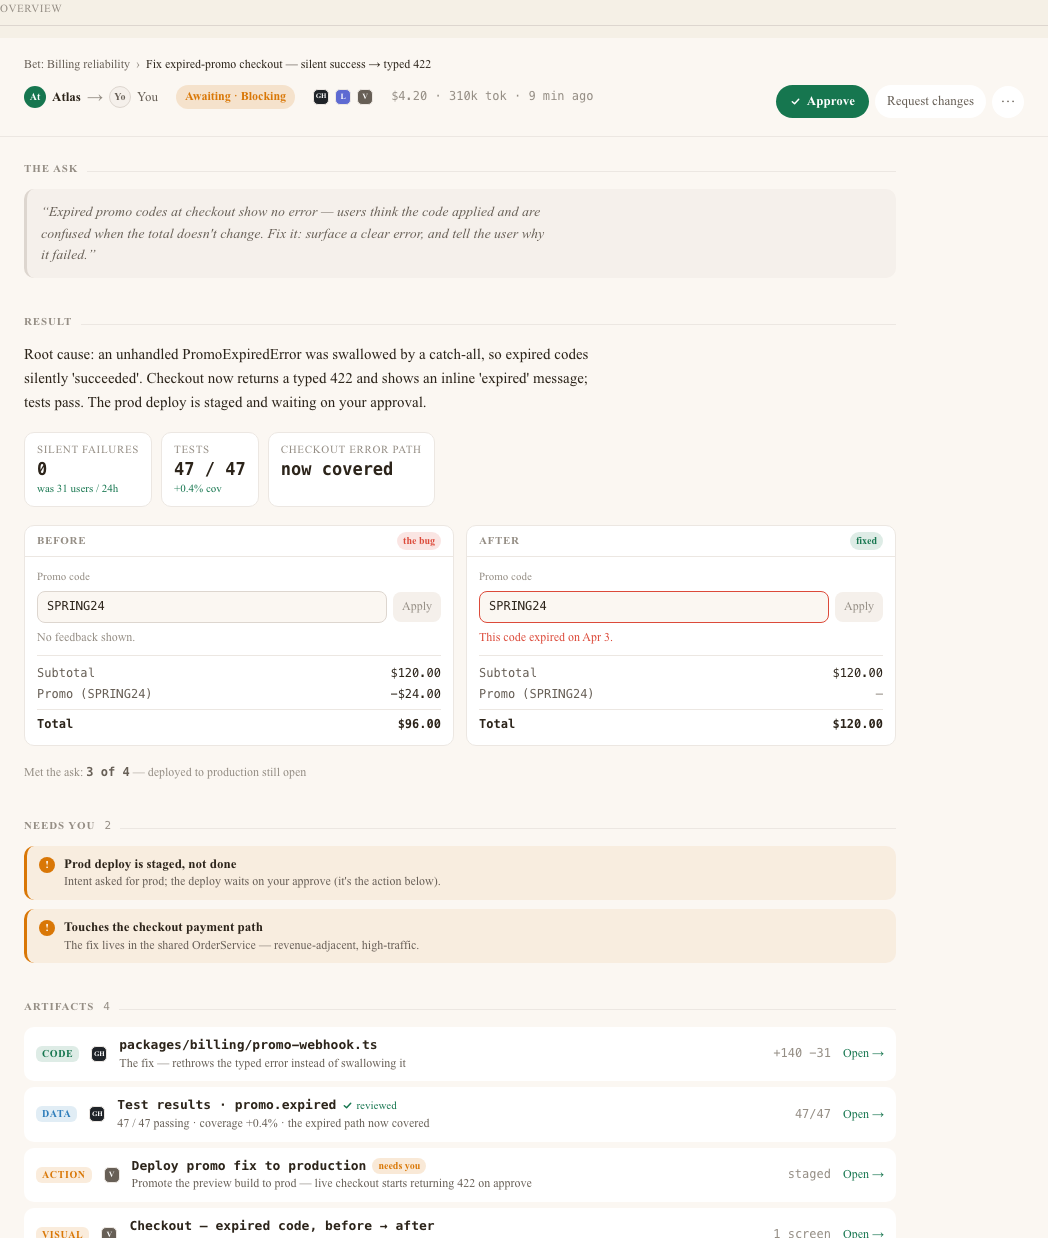
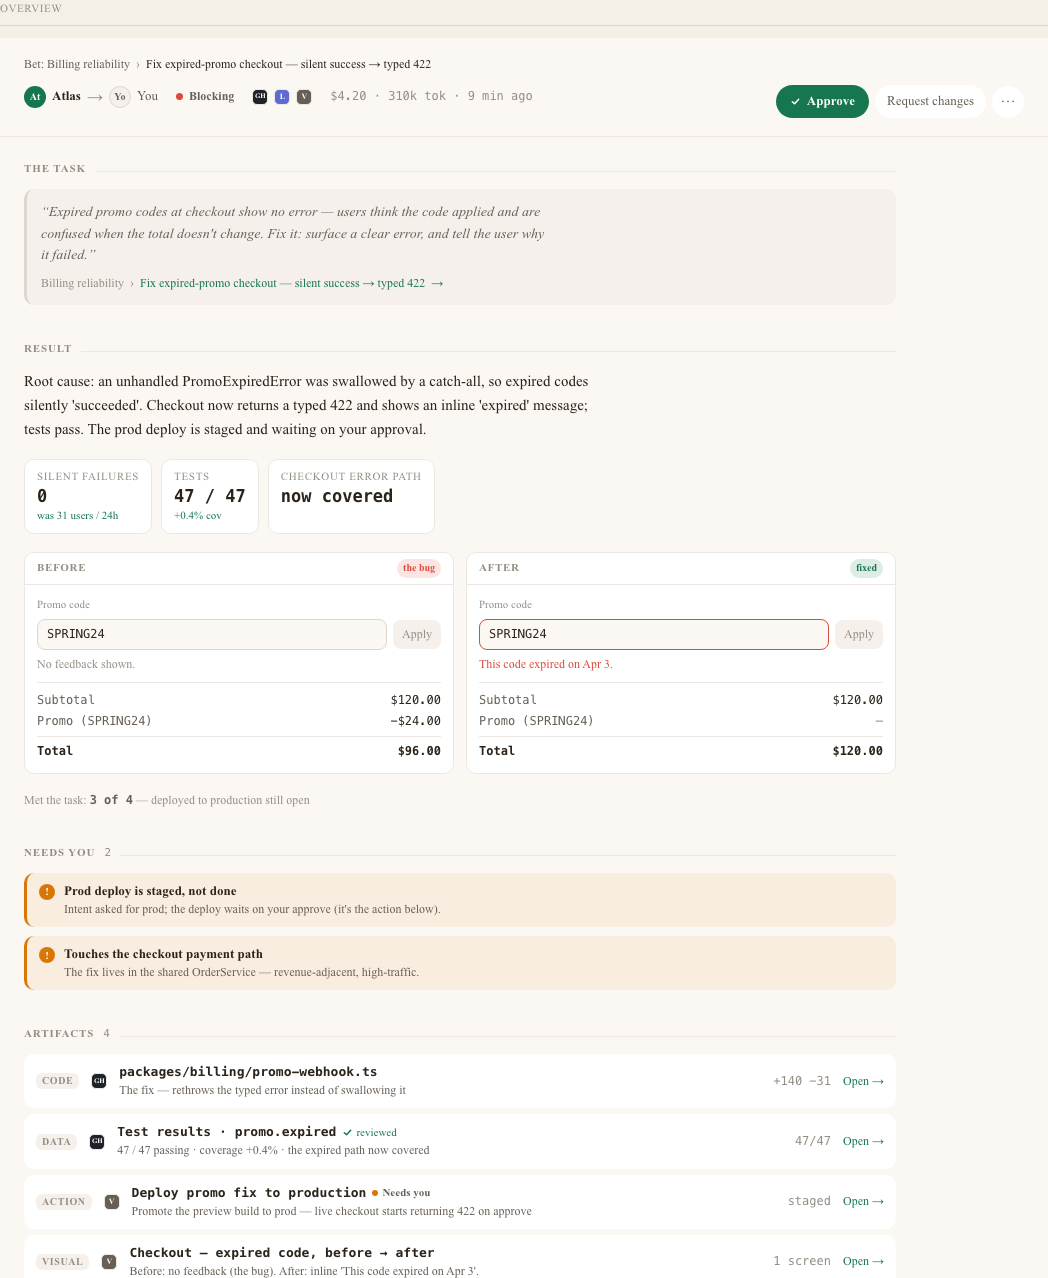
design(AL1): refined composition round-3 polish
Founder round-3 annotations:
- One conversation: removed the per-artifact thread in the examine pane; kept the
  single global thread; comments carry a reference chip (on PromoField.tsx:118)
  so feedback can point at an artifact/spot without a second thread.
- Killed the 'round blob' pills: Awaiting·Blocking → red dot + text; artifact
  'needs you' → amber dot + text.
- THE ASK → THE TASK + a clickable link to the source (bet › task).
- Muted kind badges (neutral, dropped KIND_TINT) — color reserved for meaning.
(Conversation style will adopt the AM-track redesign later — kept light for now.)

diff --git a/packages/web/src/pages/review/ReviewCompositionRefined.tsx b/packages/web/src/pages/review/ReviewCompositionRefined.tsx
@@ -1,23 +1,26 @@
-// AL1 — composition, REFINED (round 3). The CONVERGED review experience, addressing
-// the founder's round-2 annotations:
+// AL1 — composition, REFINED (round 3 applied). The CONVERGED review experience.
+// Round-3 founder annotations applied on top of the round-2 structure:
 //
-//  (1) WHERE-WE-CAME-FROM + WHAT-WE-DID. Lead with THE ASK (the bet + the real
-//      `prompt` text) then RESULT (the outcome + glanceable `resultKpis` + a visible
-//      before→after checkout proof — "something to see," not an abstract checklist).
-//      The intent done-conditions are DEMOTED to one small "Met the ask" line.
-//  (2) RIGHT-PANE, not downward. The center column IS the whole review you approve.
-//      Clicking an artifact opens it in a RIGHT PANE (center narrows); closing returns
-//      full width. The conversation lives ON THE CONTENT — inline at the end of the
-//      center overview, and (in the pane) anchored to the examined artifact. Never a
-//      separate persistent conversation pane.
-//  (3) NO floating verdict bar. The verdict sits in the TOP-RIGHT of the frame header,
-//      always reachable: primary Approve · secondary Request changes · ⋯ overflow
-//      (Approve w/ comments · Edit · Reject).
-//  (4) REDUCED NESTING. Center artifact rows are THIN openers (kind badge + ToolLogo +
-//      title + summary + change badge + reviewed + "Open →"), NOT containers wrapping
-//      the building block. The full block opens in the pane (with its own source header).
-//  (5) CLEAR SECTIONS + air. Each section gets a quiet-caps header (The ask · Result ·
-//      Needs you · Artifacts · Conversation) with generous spacing.
+//  R3-1 ONE conversation, not two. A single global thread lives at the end of the
+//       center overview. The right pane shows ONLY the building block — no second
+//       per-artifact thread. A comment can carry a reference chip ("on PromoField.tsx:118")
+//       so feedback points at an artifact/spot as context without a second thread.
+//       Kept lightly styled — it will adopt the AM-track conversation redesign later.
+//  R3-2 No round-blob status pills. Standing/risk read as a status DOT + plain text
+//       (red dot · Blocking; amber dot · Needs you), not a saturated --r-pill blob.
+//  R3-3 "The task" (was "The ask") + a link to the source reference (bet › task record).
+//  R3-4 Muted kind badges — CODE/DATA/ACTION/VISUAL render neutral; color is reserved
+//       for MEANING (status / needs-you), so the surface reads calm, not rainbow.
+//
+//  Carried from round 2:
+//  (·) WHERE-WE-CAME-FROM + WHAT-WE-DID — §The task (bet + real prompt) then §Result
+//      (outcome + KPIs + before→after checkout proof). Intent demoted to "Met the task".
+//  (·) RIGHT-PANE, not downward. Center IS the review; clicking an artifact opens it in
+//      a right pane (center narrows); closing returns full width.
+//  (·) NO floating verdict bar. Verdict sits TOP-RIGHT of the header: Approve · Request
+//      changes · ⋯ overflow (Approve w/ comments · Edit · Reject).
+//  (·) THIN artifact openers, not containers. The full block opens in the pane.
+//  (·) CLEAR SECTIONS + air — quiet-caps headers, generous spacing.
 //
 // Presentational isolation: local useState for pane open/close + active artifact +
 // overflow menu. Every callback is a no-op. No router/context/MockProviders.
@@ -71,25 +74,24 @@ const KIND_LABEL: Record<SubjectArtifactRow["kind"], string> = {
 	visual: "Visual",
 };
 
-const KIND_TINT: Record<SubjectArtifactRow["kind"], string> = {
-	code: "var(--accent-primary)",
-	data: "var(--status-info)",
-	action: "var(--status-warning)",
-	visual: "var(--accent-secondary)",
-};
-
-/** kind badge — a tiny squared chip in the artifact's family color. */
+/**
+ * kind badge — a tiny neutral chip. Per round-3 founder note (4): color is reserved
+ * for MEANING (status / needs-you), so the kind label reads quiet, not rainbow.
+ */
 function KindBadge({ kind }: { kind: SubjectArtifactRow["kind"] }): JSX.Element {
-	const tint = KIND_TINT[kind];
 	return (
-		<span
-			className="inline-flex items-center rounded-[6px] px-[6px] py-[3px] text-[10px] font-[600] uppercase tracking-[var(--tracking-caps-sm)] leading-none"
-			style={{
-				color: tint,
-				background: `color-mix(in oklab, ${tint} 14%, transparent)`,
-			}}
-		>
+		<span className="inline-flex items-center rounded-[6px] bg-[var(--surface-container)] px-[6px] py-[3px] text-[10px] font-[600] uppercase tracking-[var(--tracking-caps-sm)] leading-none text-[var(--text-tertiary)]">
 			{KIND_LABEL[kind]}
+		</span>
+	);
+}
+
+/** status dot + label — calm, legible standing/risk signal (not a saturated blob). */
+function StatusDot({ tone, label }: { tone: string; label: string }): JSX.Element {
+	return (
+		<span className="inline-flex items-center gap-[6px] text-[12px] font-[600] text-[var(--text-secondary)]">
+			<span aria-hidden="true" className="h-[7px] w-[7px] rounded-[var(--r-pill)]" style={{ background: tone }} />
+			{label}
 		</span>
 	);
 }
@@ -198,11 +200,7 @@ function FrameHeader({ menuOpen, onToggleMenu }: VerdictProps): JSX.Element {
 						<span className="text-[13px] text-[var(--text-secondary)]">{s.reviewer}</span>
 					</div>
 
-					{s.blocking ? (
-						<span className="inline-flex items-center gap-[6px] rounded-[var(--r-pill)] bg-[color-mix(in_oklab,var(--status-warning)_16%,transparent)] px-[9px] py-[3px] text-[12px] font-[600] text-[var(--status-warning)]">
-							Awaiting · Blocking
-						</span>
-					) : null}
+					{s.blocking ? <StatusDot tone="var(--status-error)" label="Blocking" /> : null}
 
 					<div className="flex items-center gap-[6px]">
 						{s.tools.map((t: ToolId) => (
@@ -222,16 +220,29 @@ function FrameHeader({ menuOpen, onToggleMenu }: VerdictProps): JSX.Element {
 	);
 }
 
-// ── § THE ASK — where we came from (the real prompt, small + scannable) ─────────────
-function AskSection(): JSX.Element {
+// ── § THE TASK — where we came from (the real prompt + a link to the source) ────────
+function TaskSection(): JSX.Element {
 	const s = REVIEW_SUBJECT;
 	return (
 		<section>
-			<SectionHead label="The ask" />
+			<SectionHead label="The task" />
 			<div className="rounded-[var(--r-subtle)] border-l-[3px] border-[var(--border-default)] bg-[var(--surface-container)] px-[14px] py-[12px]">
 				<p className="max-w-[72ch] text-[14px] italic leading-[1.55] text-[var(--text-secondary)]">
 					“{s.prompt}”
 				</p>
+				{/* link to the source reference — the task record this work is judged against */}
+				<button
+					type="button"
+					onClick={() => {}}
+					className="mt-[9px] inline-flex items-center gap-[6px] text-[12px] font-[500] text-[var(--accent-primary)] transition-colors duration-[var(--motion-fast)] ease-[var(--motion-ease)] hover:brightness-95"
+				>
+					<span className="text-[var(--text-tertiary)]">{s.bet}</span>
+					<span aria-hidden="true" className="text-[var(--text-tertiary)]">
+						›
+					</span>
+					<span className="truncate">{s.workIdentity}</span>
+					<span aria-hidden="true">→</span>
+				</button>
 			</div>
 		</section>
 	);
@@ -377,7 +388,7 @@ function ResultSection(): JSX.Element {
 
 				{/* the intent checklist, DEMOTED to one secondary line */}
 				<p className="text-[12px] text-[var(--text-tertiary)]">
-					Met the ask:{" "}
+					Met the task:{" "}
 					<span className="font-mono tabular-nums font-[600] text-[var(--text-secondary)]">
 						{met} of {s.intent.length}
 					</span>
@@ -449,8 +460,13 @@ function ArtifactRow({ artifact, active, onOpen }: ArtifactRowProps): JSX.Elemen
 						</span>
 					) : null}
 					{artifact.needsYou ? (
-						<span className="inline-flex items-center rounded-[var(--r-pill)] bg-[color-mix(in_oklab,var(--status-warning)_16%,transparent)] px-[6px] py-[1px] text-[10px] font-[600] text-[var(--status-warning)]">
-							needs you
+						<span className="inline-flex items-center gap-[4px] text-[11px] font-[600] text-[var(--text-secondary)]">
+							<span
+								aria-hidden="true"
+								className="h-[6px] w-[6px] rounded-[var(--r-pill)]"
+								style={{ background: "var(--status-warning)" }}
+							/>
+							Needs you
 						</span>
 					) : null}
 				</div>
@@ -508,9 +524,16 @@ function CommentItem({ comment }: { comment: ReviewComment }): JSX.Element {
 					<span className="text-[11px] text-[var(--text-tertiary)]">{comment.ago}</span>
 				</div>
 				{comment.anchor ? (
-					<span className="mt-[3px] inline-flex items-center rounded-[6px] bg-[var(--surface-container)] px-[6px] py-[1px] font-mono text-[11px] text-[var(--text-tertiary)]">
-						{comment.anchor}
-					</span>
+					/* reference chip — the comment points AT something (a spot / an artifact) as
+					   context, so feedback can target a place without spawning a second thread. */
+					<button
+						type="button"
+						onClick={() => {}}
+						className="mt-[3px] inline-flex items-center gap-[4px] rounded-[6px] border border-[var(--border-subtle)] bg-[var(--surface-container)] px-[6px] py-[1px] text-[11px] text-[var(--text-tertiary)] transition-colors duration-[var(--motion-fast)] ease-[var(--motion-ease)] hover:text-[var(--text-secondary)]"
+					>
+						<span className="text-[var(--text-tertiary)]">on</span>
+						<span className="font-mono text-[var(--text-secondary)]">{comment.anchor}</span>
+					</button>
 				) : null}
 				<p className="mt-[3px] text-[13px] leading-[1.5] text-[var(--text-secondary)]">{comment.body}</p>
 			</div>
@@ -561,8 +584,9 @@ function ExaminePane({
 	artifact: SubjectArtifactRow;
 	onClose: () => void;
 }): JSX.Element {
-	// conversation anchored to THIS artifact (the code file's thread on PromoField.tsx:118)
-	const anchored = REVIEW_SUBJECT.conversation.filter((c) => c.anchor !== undefined);
+	// Round-3 (1): ONE conversation only — the global one in the center overview. The
+	// pane shows the building block alone; to discuss a spot here you "Comment on this"
+	// and it lands in the global thread carrying a reference chip back to this artifact.
 	return (
 		<aside className="flex h-full w-[620px] shrink-0 flex-col border-l border-[var(--border-subtle)] bg-[var(--surface-container)]">
 			<div className="flex items-center gap-[9px] border-b border-[var(--border-subtle)] bg-[var(--surface-page)] px-[18px] py-[12px]">
@@ -571,6 +595,13 @@ function ExaminePane({
 				<span className="min-w-0 flex-1 truncate font-mono text-[13px] font-[600] text-[var(--text-primary)]">
 					{artifact.title}
 				</span>
+				<button
+					type="button"
+					onClick={() => {}}
+					className="rounded-[var(--r-pill)] border border-[var(--border-default)] bg-[var(--surface-elevated)] px-[10px] py-[5px] text-[12px] font-[500] text-[var(--text-secondary)] transition-colors duration-[var(--motion-fast)] ease-[var(--motion-ease)] hover:text-[var(--text-primary)]"
+				>
+					Comment on this
+				</button>
 				<button
 					type="button"
 					aria-label="Close artifact"
@@ -583,23 +614,9 @@ function ExaminePane({
 
 			<div className="min-h-0 flex-1 overflow-auto">
 				<div className="flex flex-col gap-[18px] p-[18px]">
-					{/* the building block at full size — REAL ReviewCodeDiff for the code artifact */}
-					{artifact.kind === "code" ? (
-						<ReviewCodeDiff />
-					) : (
-						<PlaceholderBlock artifact={artifact} />
-					)}
-
-					{/* conversation anchored to THIS content — on the content, not a side pane */}
-					<section>
-						<SectionHead label="Conversation" count={String(anchored.length)} />
-						<div className="flex flex-col gap-[12px]">
-							{anchored.map((c) => (
-								<CommentItem key={c.id} comment={c} />
-							))}
-							<Composer placeholder="Comment on this artifact…" />
-						</div>
-					</section>
+					{/* the building block at full size — REAL ReviewCodeDiff for the code artifact.
+					    No second conversation lives here (round-3: one global thread only). */}
+					{artifact.kind === "code" ? <ReviewCodeDiff /> : <PlaceholderBlock artifact={artifact} />}
 				</div>
 			</div>
 		</aside>
@@ -661,7 +678,7 @@ export function ReviewCompositionRefined({
 
 				<div className="min-h-0 flex-1 overflow-auto">
 					<div className="flex max-w-[920px] flex-col gap-[36px] px-[24px] py-[24px]">
-						<AskSection />
+						<TaskSection />
 						<ResultSection />
 						<NeedsSection />
 						<ArtifactsSection activeId={activeId} onOpen={openArtifact} />
